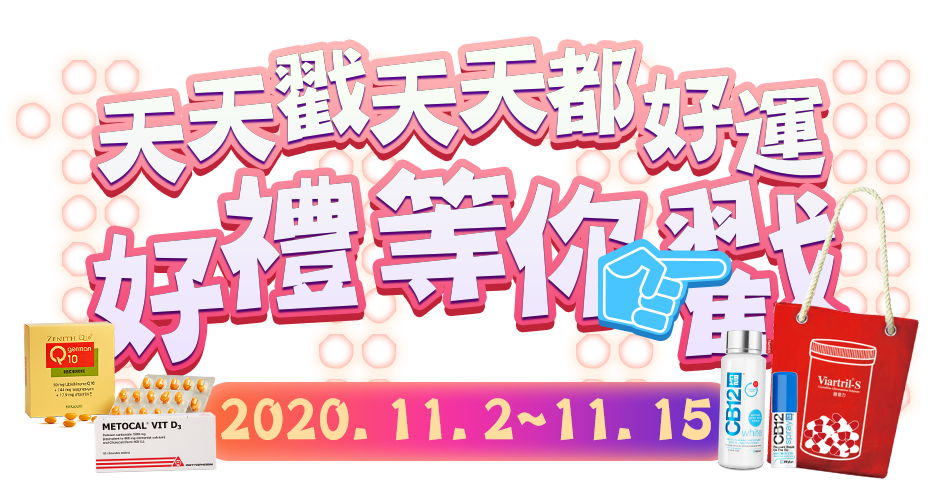
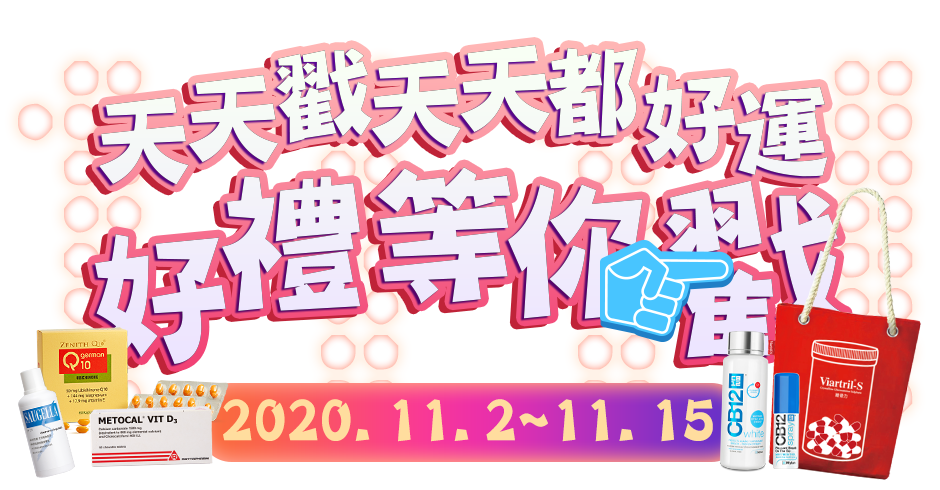
updata

diff --git a/index.html b/index.html
@@ -259,7 +259,14 @@
     <div class="g-main">
       <div class="saleTitle"><img src="images/saletitle.png" alt="秒殺商品"></div>
       <div class="sale">
-        <div class="content">eee</div>
+        <div class="content">
+          <a href="#"><img src="images/slae_armolipid.jpg" alt="旨立通錠" class="imgrwd" target="_blank"></a>
+          <a href="#"><img src="images/slae_q10.jpg" alt="Q10常青十倍素膠囊" class="imgrwd" target="_blank"></a>
+          <a href="#"><img src="images/slae_metocal.jpg" alt="好力鈣嚼錠" class="imgrwd" target="_blank"></a>
+          <a href="#"><img src="images/slae_cb12.jpg" alt="CB12漱口水" class="imgrwd" target="_blank"></a>
+          <a href="#"><img src="images/slae_cb12spray.jpg" alt="CB12淨味噴霧" class="imgrwd" target="_blank"></a>
+          <a href="#"><img src="images/slae_saugella.jpg" alt="賽吉兒全品項" class="imgrwd" target="_blank"></a>
+        </div>
 
       </div>
     </div>
@@ -275,11 +282,13 @@
       <ul class="directions">
         <li>會員於活動期間內登入藍鯨悠活網站/活動頁面，登入當日即可「免費獲得1次戳戳樂機會」，並限於當日使用完畢 </li>
 
-        <li> 會員於活動期間內，可使用自身紅利點數5點兌換1次戳戳樂機會，每日兌換次數上限10次，若自身無紅利點數則無法兌換使用 </li>
+        <li>會員於活動期間內，可使用自身紅利點數5點兌換1次戳戳樂機會，每日兌換次數上限10次，若自身無紅利點數則無法兌換使用</li>
 
-        <li> 活動贈品兌換需依據內容說明公告之期限內使用/兌換完畢，逾期將失效亦不予補發 </li>
+        <li>活動贈品兌換需依據內容說明公告之期限內使用/兌換完畢，逾期將失效亦不予補發，得獎者可至會員中心-我的折價券查看中獎內容</li>
 
-        <li> (*獎~*獎)之得獎者，贈品將於本活動結束後，11月30日前寄送完畢 </li>
+        <li>
+          首獎~5獎之得獎者，贈品將自動帶入購物車進行後續寄送流程，活動期間若無消費之得獎者，藍鯨悠活網將於本活動結束後，11月30日前將贈品寄送完畢。並請得獎者留下正確聯絡資訊，活動結束後若因聯絡資料錯誤導致無法聯繫到得獎者，該得獎者則視同放棄該獎項。
+        </li>
       </ul>
 
     </div>
